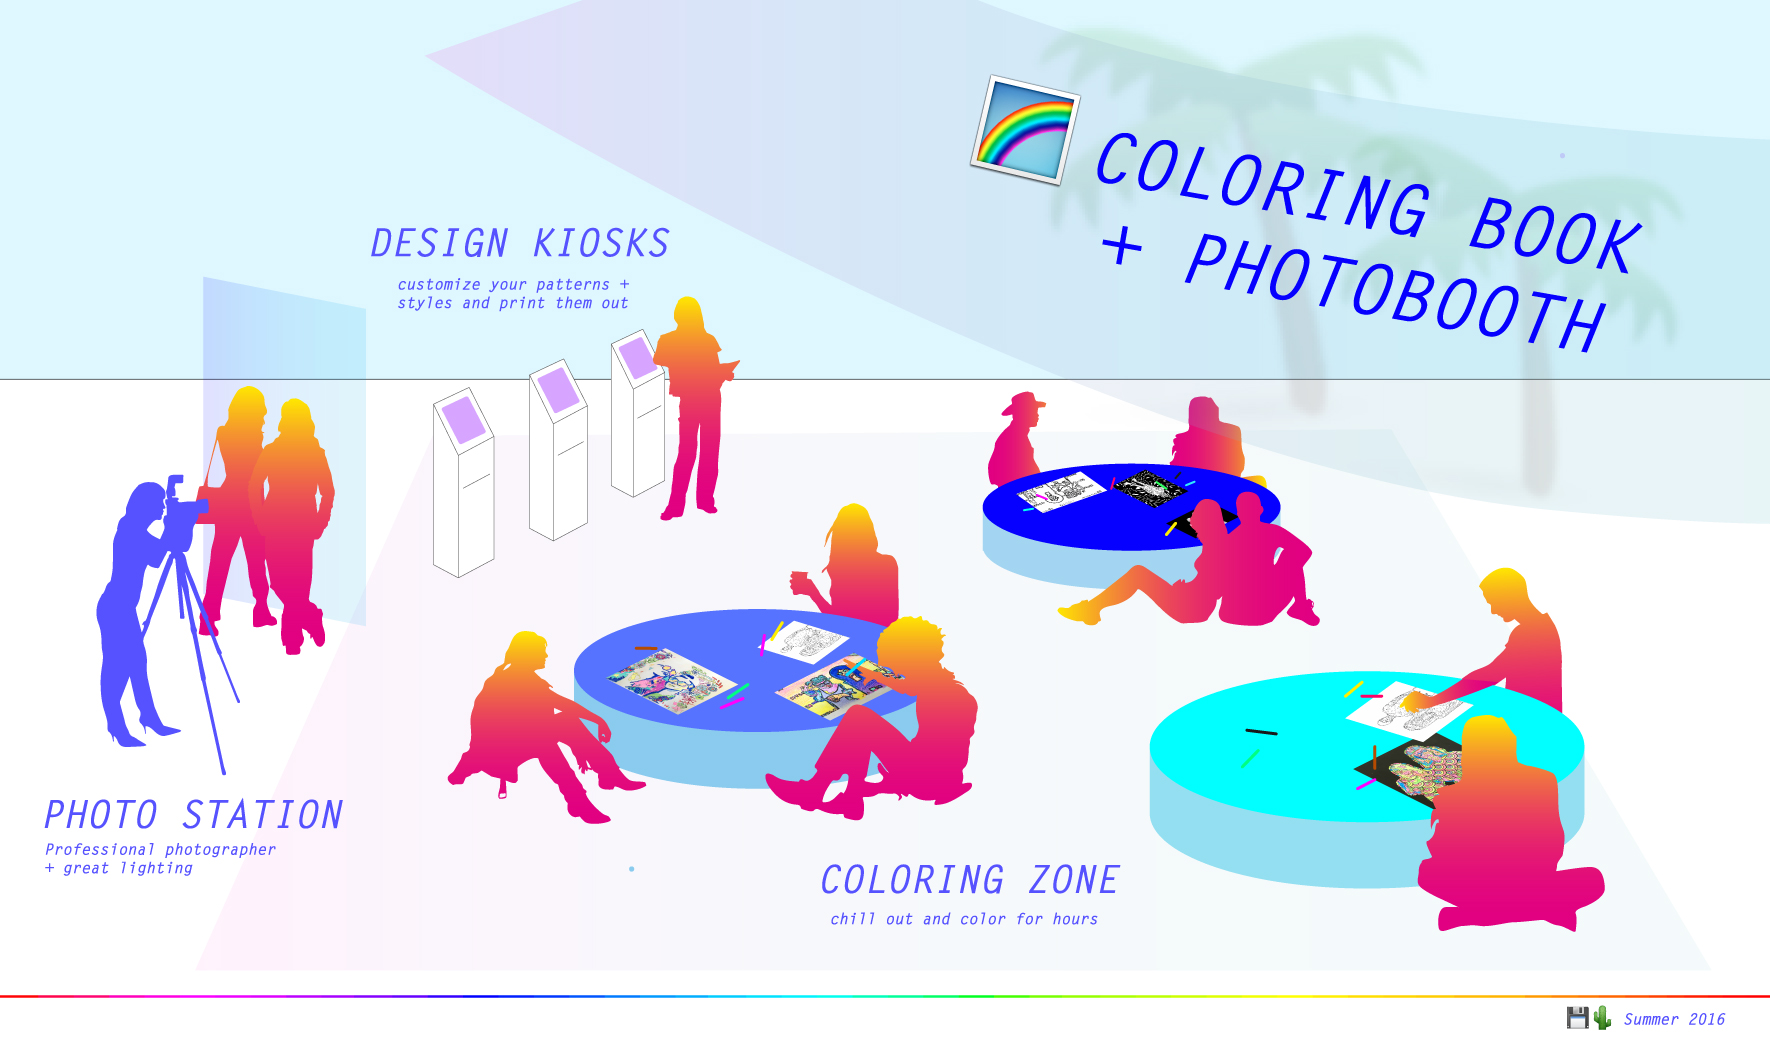
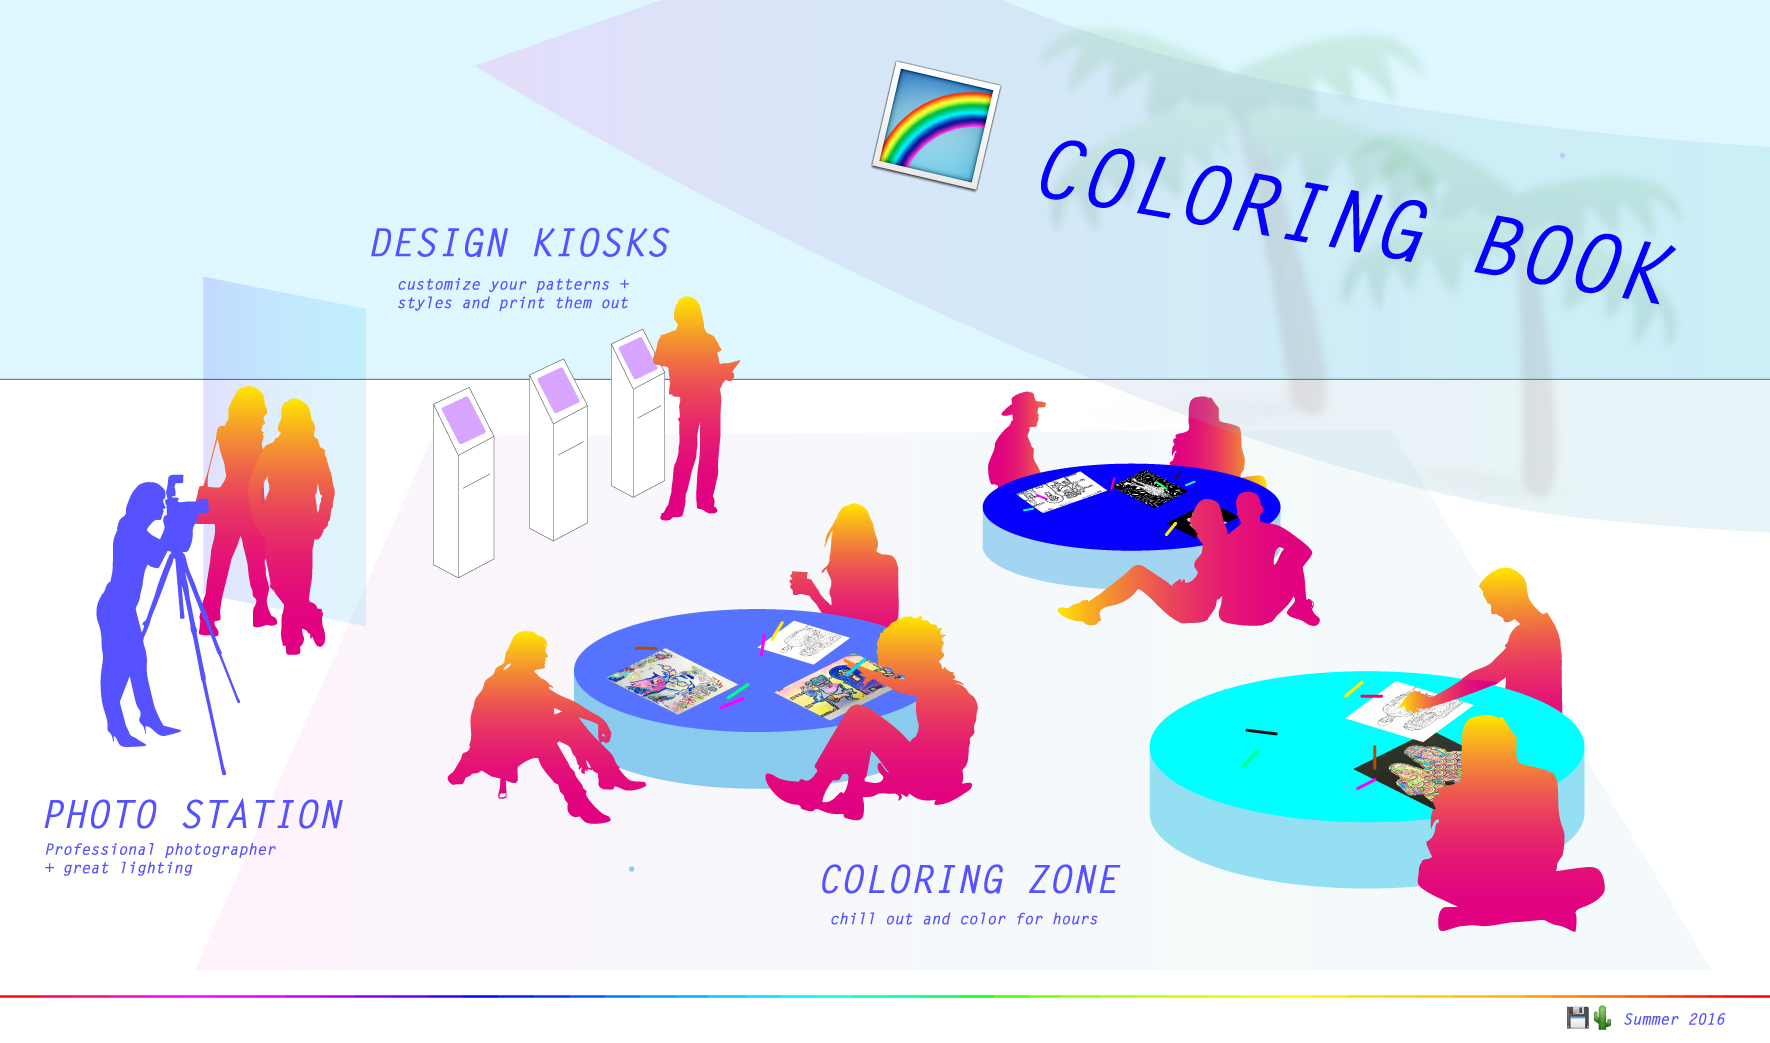
never say photobooth again

Changed region(s): [[0.4972, 0.0614, 0.9322, 0.3375], [0.2486, 0.0307, 0.3107, 0.092]]

diff --git a/color/index.html b/color/index.html
@@ -25,7 +25,7 @@
     </div>
     
     <div class="section" id="intro">
-        <h1>COLORING BOOK + PHOTO BOOTH</h1>
+        <h1>💾🌵 COLORING BOOK</h1>
         <img src="img/animated.gif" class="large" id="animatedSteps">
         <p class="subtitle">Strike a pose. Snap a shot. Choose a style. Chill out & color.</p>
     </div>
